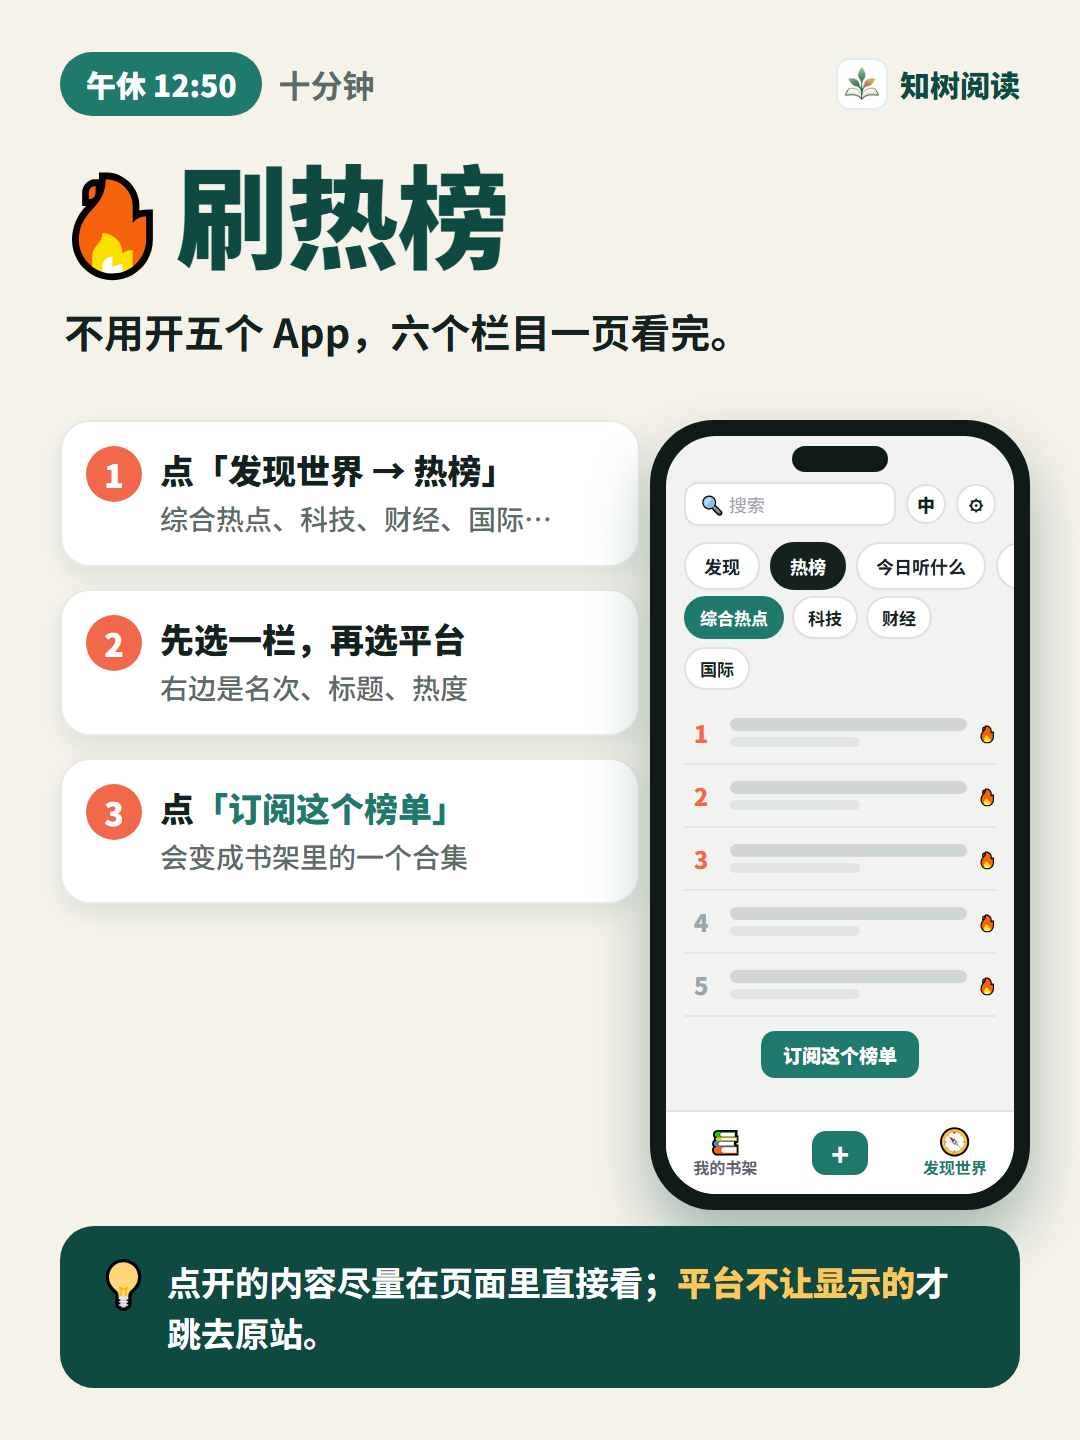
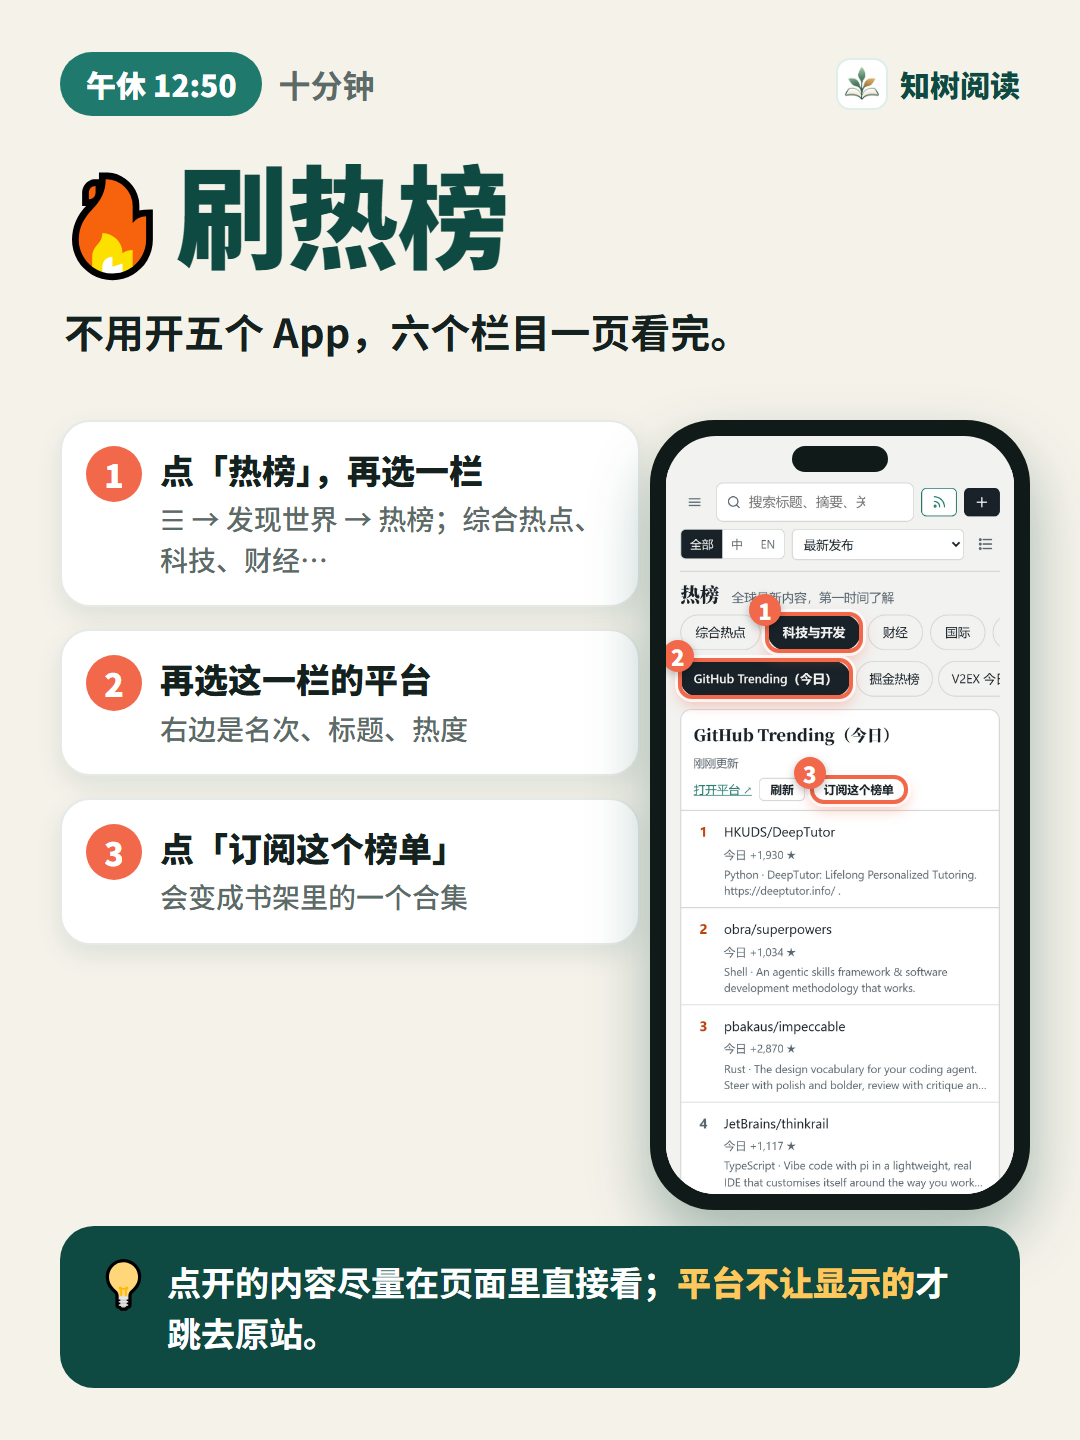
Promotion pictures: real screenshots of the live site (listening, podcasts, hot lists, discover, focus) in the phone, with numbered marks on the buttons each step talks about

Changed region(s): [[0.0611, 0.3125, 0.9472, 0.8438]]

diff --git a/docs/promo/2026-10-new-features/slides.html b/docs/promo/2026-10-new-features/slides.html
@@ -109,6 +109,13 @@ body.one .slide.on{display:block}
 .focus .timer span.on{background:var(--sun);color:#14211F;border-color:var(--sun)}
 .focus .pat{position:absolute;left:0;right:0;top:100px;text-align:center;color:#9FB4B0;font-size:18px}
 
+/* ---------- real screenshots with numbered marks ---------- */
+.shotbox{position:absolute;left:0;right:0;top:34px;aspect-ratio:390/844;background:#F2F3F0}
+.shotbox img{display:block;width:100%;height:100%}
+.pin{position:absolute;border:4px solid var(--coral);border-radius:14px;box-shadow:0 0 0 3px rgba(255,255,255,.75),0 6px 14px rgba(242,104,74,.35)}
+.pin b{position:absolute;left:-20px;top:-22px;width:32px;height:32px;border-radius:50%;background:var(--coral);color:#fff;display:grid;place-items:center;font-size:22px;font-weight:900;box-shadow:0 3px 8px rgba(0,0,0,.25)}
+.real{position:absolute;right:50px;top:1214px;font-size:22px;font-weight:700;color:#8A9A97;width:380px;text-align:center}
+
 /* ---------- add to home screen ---------- */
 .os{position:absolute;left:60px;right:60px;top:290px;display:flex;flex-direction:column;gap:20px}
 .osc{background:#fff;border-radius:34px;border:2px solid #E6EAE6;box-shadow:0 10px 26px rgba(14,74,66,.10);padding:26px 36px 24px 36px;position:relative}
@@ -126,46 +133,33 @@ body.one .slide.on{display:block}
 <script>
 /* ---------- DATA: 要改字就改这里 ---------- */
 const LOGO = '../../../icons/zhishishu-icon.png';
-const TB = '<div class="tb"><u><s>📚</s>我的书架</u><div class="plus">+</div><u class="on"><s>🧭</s>发现世界</u></div>';
-const TABS = on => ['发现','热榜','今日听什么','精选图书','全部'].map(x => `<span class="${x===on?'on':''}">${x}</span>`).join('');
-const ROW = (c, p) => `<div class="row"><div class="cv ${c||''}"></div><div class="lines"><i></i><i class="s"></i></div><div class="play ${p?'on':''}">▶</div></div>`;
-const PBAR = x => `<div class="pbar"><div class="cv"></div><div class="lines"><i style="width:70%"></i><i class="s"></i></div>${x||''}<div class="play on" style="background:#fff;color:#14211F">❚❚</div></div>`;
-const PHONE = (tabsOn, pane, extra) => `<div class="phone"><div class="screen"><div class="notch"></div>
-  <div class="sbar"><div class="search">🔍 搜索</div><div class="dot">中</div><div class="dot">⚙</div></div>
-  <div class="tabs">${TABS(tabsOn)}</div><div class="pane">${pane}</div>${extra||''}${TB}</div></div>`;
-
-const MUSIC = PHONE('今日听什么',
-  `<div class="seg2"><span class="on">音乐</span><span>播客</span></div>
-   <div class="chips2"><span class="on">每日推荐</span><span>华语热歌</span><span>欧美</span><span>韩流</span></div>
-   ${ROW('',1)}${ROW('b')}${ROW('c')}${ROW('')}`, PBAR());
-const POD = PHONE('今日听什么',
-  `<div class="seg2"><span>音乐</span><span class="on">播客</span></div>
-   <div class="chips2"><span class="on">热门播客</span><span>中国大陆</span><span>新闻</span><span>英语学习</span></div>
-   ${ROW('c',1)}${ROW('')}${ROW('b')}${ROW('c')}`, PBAR('<b>1.5×</b>'));
-const HOT = PHONE('热榜',
-  `<div class="chips2"><span class="on">综合热点</span><span>科技</span><span>财经</span><span>国际</span></div>
-   ${[1,2,3,4,5].map(n=>`<div class="row"><div class="rank ${n<4?'t':''}">${n}</div><div class="lines"><i></i><i class="s"></i></div><div class="heat">🔥</div></div>`).join('')}
-   <div style="margin-top:14px;text-align:center"><span style="display:inline-block;background:var(--teal);color:#fff;font-size:19px;font-weight:800;padding:10px 22px;border-radius:14px">订阅这个榜单</span></div>`);
-const DISC = PHONE('发现',
-  `<div class="h2">今日 3 件值得看</div><div class="big"><em>为什么值得看</em></div><div class="two"><div></div><div></div></div>
-   <div class="h2">编辑精选</div>${ROW('b')}<div class="acts"><span class="on">♥</span><span>🔖</span><span>＋订阅</span></div>`);
-const FOCUS = `<div class="phone"><div class="screen"><div class="notch"></div><div class="focus"><div class="pat">呼吸 · 极光 · 暗（点一下换）</div><div class="c1"></div><div class="c2"></div><div class="c3"></div><div class="nm">— 专 注 —</div><div class="timer"><span>15</span><span class="on">25</span><span>45</span><span>60 分钟</span></div></div></div></div>`;
+// the pictures in shots/ are real screenshots of books.zhitree.cn (a phone of 390 x 844, taken 2026-10-30; the songs and the lists change every day).
+// PIN: where the thing a step talks about is on that picture [x, y, width, height] in the 390 x 844 px of the phone.
+const PIN = {
+  listen: [[16,20,32,32],[292,319,36,36],[276,229,98,44]],
+  podcast: [[91,118,74,44],[166,175,57,40],[292,319,36,36]],
+  hot: [[114,162,104,40],[16,214,191,40],[164,345,104,26]],
+  discover: [[16,20,32,32],[16,230,358,150],[322,238,44,44]],
+  focus: []
+};
+const pinHTML = (r, n) => { const g = 3; return `<div class="pin" style="left:${(r[0]-g)/390*100}%;top:${(r[1]-g)/844*100}%;width:${(r[2]+2*g)/390*100}%;height:${(r[3]+2*g)/844*100}%"><b>${n}</b></div>`; };
+const SHOT = (name, bare) => `<div class="phone"><div class="screen"${name === 'focus' ? ' style="background:#180c20"' : ''}><div class="notch"></div><div class="shotbox"${name === 'focus' ? ' style="background:#180c20"' : ''}><img src="shots/${name}.jpg" alt="">${bare ? '' : PIN[name].map((r, i) => pinHTML(r, i + 1)).join('')}</div></div></div>`;
 
 const SCENES = [
- {when:'早上 8:10', where:'通勤', icon:'🎧', title:'听音乐', story:'每天一批新歌，戴上耳机就能开始。', phone:MUSIC,
-  steps:[['点「发现世界」','打开 books.zhitree.cn，不用注册'],['点「今日听什么」','每日推荐、华语 / 欧美 / 韩流 / 日系热歌榜'],['点一首，再点<b>「播放全部」</b>','底部出现播放条，一首接一首']],
+ {when:'早上 8:10', where:'通勤', icon:'🎧', title:'听音乐', story:'每天一批新歌，戴上耳机就能开始。', phone:SHOT('listen'),
+  steps:[['点左上角 ☰，选「发现世界」','再点「今日听什么」，不用注册'],['点一首歌的 ▶','每日推荐、华语 / 韩流 / 日系 / 欧美热歌'],['想连着听，点「播放全部」','底部出现播放条，一首接一首']],
   tip:['💡','有的是 <b>30 秒试听</b>，有的是整首，那一行会标“试听”；喜欢的点 ↗ 去原平台听全曲。']},
- {when:'中午 12:30', where:'通勤第二程', icon:'🎙', title:'听播客', story:'听腻了歌，同一页切个开关就是播客。', phone:POD,
-  steps:[['点顶上的「播客」','「今日听什么」页里的「音乐 | 播客」开关'],['选一个榜单或分类','热门播客、各国榜单、新闻 / 商业 / 英语学习…'],['点一集就播','倍速 0.75×–2×，可定时关闭']],
+ {when:'中午 12:30', where:'通勤第二程', icon:'🎙', title:'听播客', story:'听腻了歌，同一页切个开关就是播客。', phone:SHOT('podcast'),
+  steps:[['把「音乐」切到「播客」','就在「今日听什么」这一页'],['选一个榜单或分类','各国榜单、科技、英语学习、历史'],['点一集就播','倍速 0.75×–2×，可定时关闭']],
   tip:['💡','有自己爱听的节目？贴它的 <b>RSS 地址</b>就能订阅；听到哪一集只记在你自己的浏览器里。']},
- {when:'午休 12:50', where:'十分钟', icon:'🔥', title:'刷热榜', story:'不用开五个 App，六个栏目一页看完。', phone:HOT,
-  steps:[['点「发现世界 → 热榜」','综合热点、科技、财经、国际…'],['先选一栏，再选平台','右边是名次、标题、热度'],['点<b>「订阅这个榜单」</b>','会变成书架里的一个合集']],
+ {when:'午休 12:50', where:'十分钟', icon:'🔥', title:'刷热榜', story:'不用开五个 App，六个栏目一页看完。', phone:SHOT('hot'),
+  steps:[['点「热榜」，再选一栏','☰ → 发现世界 → 热榜；综合热点、科技、财经…'],['再选这一栏的平台','右边是名次、标题、热度'],['点「订阅这个榜单」','会变成书架里的一个合集']],
   tip:['💡','点开的内容尽量在页面里直接看；<b>平台不让显示的</b>才跳去原站。']},
- {when:'晚上 21:00', where:'慢慢逛', icon:'🧭', title:'逛发现', story:'今天有什么值得看，一页给你理好。', phone:DISC,
-  steps:[['点「发现世界 → 发现」','今日 3 件 → 编辑精选 → 值得订阅'],['喜欢就点 <b>♥</b>','只写真实的理由，不会编'],['想留着的点<b>书签</b>','存进「我的书架」，不上传']],
+ {when:'晚上 21:00', where:'慢慢逛', icon:'🧭', title:'逛发现', story:'今天有什么值得看，一页给你理好。', phone:SHOT('discover'),
+  steps:[['点 ☰ →「发现世界」','再点「发现」：今日 3 件 → 今日听什么 → 编辑精选'],['点卡片就读','每张都写着为什么值得看'],['想留着的点<b>书签</b>','存进「我的书架」，不上传']],
   tip:['💡','想追更的博客或节目，点<b>订阅</b>，新文章会出现在你自己的书架里。']},
- {when:'睡前 / 学习', where:'安静一会儿', icon:'🌙', title:'专注模式', story:'屏幕只剩一个慢慢变化的图案，加上声音。', phone:FOCUS,
-  steps:[['点「专注」','「今日听什么」页，或播放条上的 ◎'],['点一下屏幕换图案','呼吸 · 极光 · 暗'],['选一个<b>定时</b>','15 / 25 / 45 / 60 分钟，到点自己停']],
+ {when:'睡前 / 学习', where:'安静一会儿', icon:'🌙', title:'专注模式', story:'屏幕只剩一个慢慢变化的图案，加上声音。', phone:SHOT('focus'),
+  steps:[['在「今日听什么」点「专注」','也可以点播放条上的 ◎'],['点一下屏幕换图案','呼吸 · 极光 · 暗'],['选一个<b>定时</b>','15 / 25 / 45 / 60 分钟，到点自己停']],
   tip:['💡','它只放<b>整首歌或整集节目</b>（30 秒试听不算）；按 Esc 或点 × 退出，声音继续。']},
 ];
 
@@ -185,7 +179,7 @@ const COVER = `<section class="slide cover" id="s1">
   <div class="sub">从早上的通勤，到睡前的专注</div>
   <div class="chips"><div class="chip"><i>🎧</i>听音乐</div><div class="chip"><i>🎙</i>听播客</div><div class="chip"><i>🔥</i>刷热榜</div><div class="chip"><i>🧭</i>逛发现</div></div>
   <div class="foot"><span>手机可添加到主屏幕</span><span>books.zhitree.cn</span></div>
-  <div class="cphone">${MUSIC}</div>
+  <div class="cphone">${SHOT('listen', true)}</div>
  </section>`;
 const HOME = `<section class="slide" id="s7">
   <div class="head"><div class="when"><b>最后一步</b><span>像 App 一样，没网也能读</span></div><div class="logo"><img src="${LOGO}" alt="">知树阅读</div></div>

diff --git a/docs/promo/2026-10-new-features/xiaohongshu.md b/docs/promo/2026-10-new-features/xiaohongshu.md
@@ -2,6 +2,8 @@
 
 图片在同一个文件夹：`xhs-01-cover.png`（封面）→ `xhs-02` … `xhs-07`（按顺序发，一共 7 张）。图的源文件是 `slides.html`（改字后重新渲染，见文末）。
 
+**图里的手机画面是 books.zhitree.cn 的真实截图**（2026-10-30 在手机尺寸 390×844 下抓的，放在 `shots/`），再加上手机边框、橙色高亮框和①②③编号，对着每一步的按钮。**歌曲和榜单每天都会变，截图里的是当天的内容**；要换成新的，重新抓图后替换 `shots/*.jpg`、改 `slides.html` 里的 `PIN`（编号框的位置），再渲染。热榜选的是“科技与开发 → GitHub Trending”，播客选的是“科技”分类，避开了社会新闻和敏感内容。
+
 **不会被部署**（`docs/` 构建时已排除）。
 
 ---
@@ -30,7 +32,7 @@
 不用注册，也不用装 App。
 
 🌅 **早上通勤｜听音乐**
-打开「发现世界 → 今日听什么」，每天一批新歌：每日推荐、华语 / 欧美 / 韩流 / 日系热歌榜都有。
+点左上角 ☰ → 「发现世界」→「今日听什么」，每天一批新歌：每日推荐、华语 / 欧美 / 韩流 / 日系热歌榜都有。
 点一首，底部出现播放条；点「播放全部」就一首接一首。
 （有的是 30 秒试听，有的是整首，页面会标“试听”）
 
@@ -75,11 +77,11 @@ iPhone：Safari → 分享 → 添加到主屏幕。
 | 图 | 内容 | 一句话 |
 |---|---|---|
 | 01 封面 | 标题 + 四个入口 | 钩子：不装 App 过完一天 |
-| 02 | 早上通勤｜听音乐 | 今日听什么 → 点一首 → 播放全部 |
-| 03 | 通勤第二程｜听播客 | 音乐 / 播客开关 → 点一集 |
-| 04 | 午休｜刷热榜 | 热榜六栏 → 订阅这个榜单 |
-| 05 | 晚上｜逛发现 | 今日 3 件 → 喜欢 / 书签 |
-| 06 | 睡前｜专注模式 | 专注 → 选图案 → 定时 |
+| 02 | 早上通勤｜听音乐（真实截图） | ☰ → 今日听什么 → 点一首 → 播放全部 |
+| 03 | 通勤第二程｜听播客（真实截图） | 音乐 / 播客开关 → 选分类 → 点一集 |
+| 04 | 午休｜刷热榜（真实截图） | 热榜选一栏 → 选平台 → 订阅这个榜单 |
+| 05 | 晚上｜逛发现（真实截图） | 今日 3 件 → 点卡片 → 书签 |
+| 06 | 睡前｜专注模式（真实截图） | 专注 → 选图案 → 定时 |
 | 07 | 添加到主屏幕 | iPhone / 安卓 / 电脑 |
 
 ## 发之后
